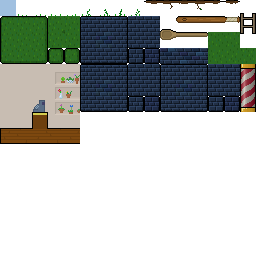
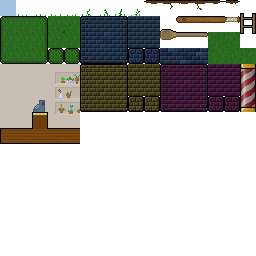
graphics wip

Changed region(s): [[0.3125, 0.25, 0.9375, 0.4375]]

diff --git a/README.md b/README.md
@@ -44,7 +44,7 @@ Apologies for the mismatched repo name! At first I was calling the game "Zero Si
   U 2025-04-20: Dayend animations complete. Map layouts. Persisting achievements, but I'm going to remodel them.
   M 2025-04-21: Revised scoring model, display scores at hello
   T 2025-04-22: Options and Dot pic at Hello. Lil fixes.
-  W 2025-04-23
+  W 2025-04-23: Fleshed out graphics, esp terrain.
   R 2025-04-24
   F 2025-04-25
   S 2025-04-26
@@ -136,3 +136,4 @@ Apologies for the mismatched repo name! At first I was calling the game "Zero Si
 - - OK I don't see any easy wins here, so let's live with the ~7%
 - [ ] Fill the tilesheet with terrain and decorative graphics, and place them all around.
 - [ ] Something more interesting for the background graphics? Flat blue sky isn't bad, but maybe some clouds or birds or a distant landscape that scrolls parallax?
+- [ ] Decorative bees flying from flower to flower?
